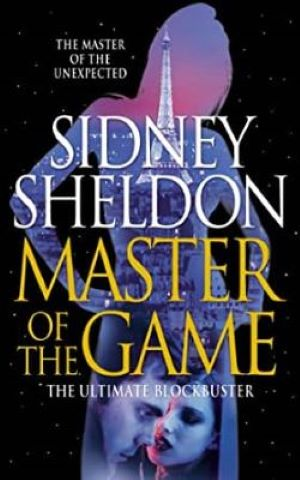
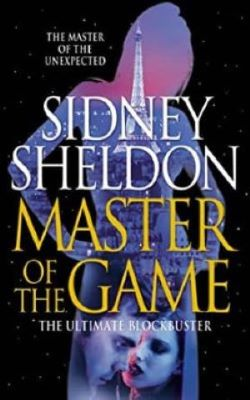
updated files

diff --git a/index.html b/index.html
@@ -42,13 +42,13 @@
       <a href="details.html" class="btn btn-primary details">Book Details</a>
    </div>
    <div class="col-md-4 col-sm-6">
-      <img src="images/images-na.ssl-images-amazon.com/images/I/91oY57N3W8L.jpg" />
-      <p class="book-title">Book Title</p>
+      <img src="images/Master-of-the-game_.jpg" />
+      <p class="book-title">Master of the Game</p>
       <a href="details.html" class="btn btn-primary details">Book Details</a>
    </div>
    <div class="col-md-4 col-sm-6">
-      <img src="images/learn-bootstrap.jpg" />
-      <p class="book-title">How to make $10k in 2 seconds</p>
+      <img src="images/I-am-enough.jpg" />
+      <p class="book-title">I am Enough</p>
       <a href="details.html" class="btn btn-primary details">Book Details</a>
     </div>
  </div>

diff --git a/details.html b/details.html
@@ -42,12 +42,12 @@
           <tbody>
             <tr>
               <td>Title</td>
-              <td>Sample Book Title</td>
+              <td>Master of the game</td>
               
             </tr>
             <tr>
               <td>Author</td>
-              <td>Michael Bob</td>
+              <td>Sidney Sheldon</td>
               
             </tr>
             <tr>
@@ -56,11 +56,11 @@
             </tr>
             <tr>
                 <td>Year </td>
-                <td>2021</td>
+                <td>2003</td>
               </tr>
             <tr>
                 <td>Price</td>
-                <td>$40.00</td>
+                <td>$22.00</td>
             </tr>
 
 
